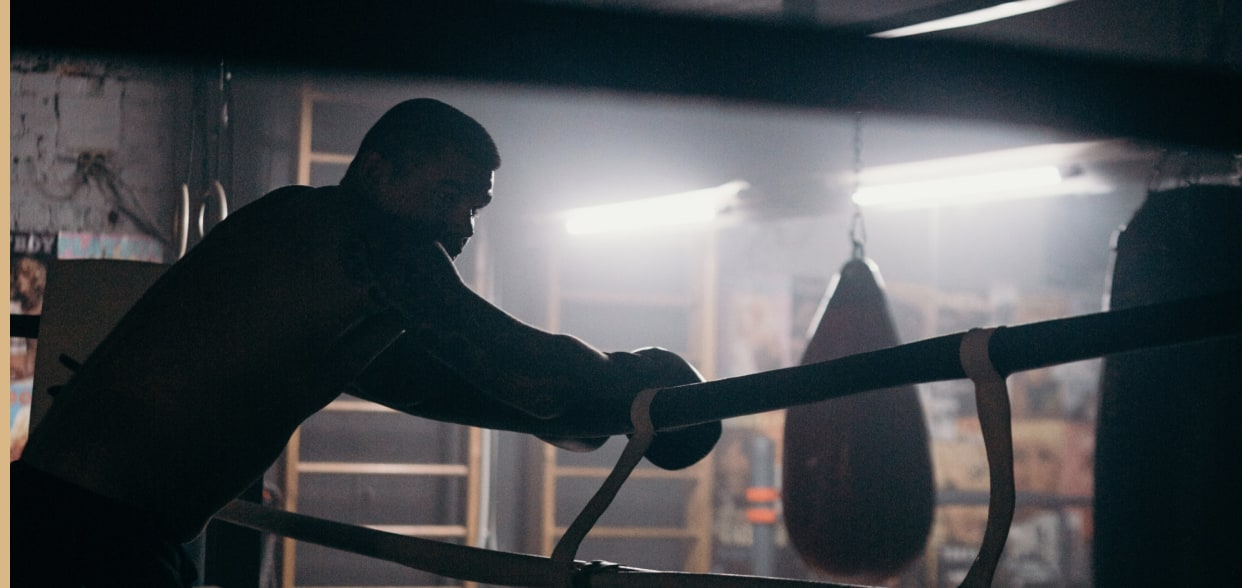
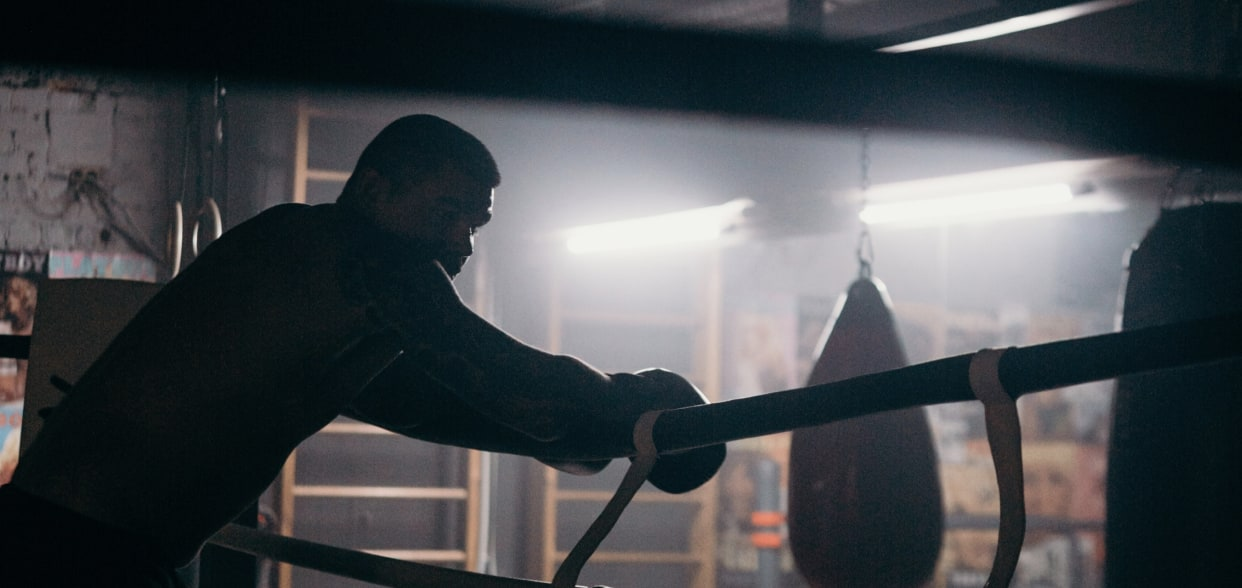
Dark mode article

diff --git a/_posts/2025-10-09-dark-mode.md b/_posts/2025-10-09-dark-mode.md
@@ -1,0 +1,29 @@
+---
+title: "Dark Mode is Here!"
+description: "A long overdue feature is finally available. You can now browse through the app's many boxing workouts in either light or dark mode!"
+p: "easy_pace"
+layout: post
+tag: features
+
+---
+
+We agree that the dark mode was long overdue, so we finally got it done: the dark mode is now available for the [Shadow Boxing App](/)! Let's take a quick look at how it looks like today.
+
+The home tab with recommended workouts is looking sharp, especially with the quick start liquid glass button.
+
+<div style='text-align: center'><img src='/assets/blog/dark/darkmode1.jpg' style='width: 80%;margin: 10px 0px 30px 0px;' alt='Dark mode for Boxing App'/></div>
+
+Tracking your stats and staying motivated in your boxing journey, but in low luminosity.
+
+
+<div style='text-align: center'><img src='/assets/blog/dark/darkmode2.jpg' style='width: 80%;margin: 10px 0px 30px 0px;' alt='Dark mode for Boxing App'/></div>
+
+Watching tutorial videos never looked better! Real cinema experience.
+
+<div style='text-align: center'><img src='/assets/blog/dark/darkmode3.jpg' style='width: 80%;margin: 10px 0px 30px 0px;' alt='Dark mode for Boxing App'/></div>
+
+Browsing through our many boxing workouts looks great, especially since it fits well with the already existing photos.
+
+<div style='text-align: center'><img src='/assets/blog/dark/darkmode4.jpg' style='width: 80%;margin: 10px 0px 30px 0px;' alt='Dark mode for Boxing App'/></div>
+
+By default the app will use your system's settings, but you can of course pick your favorite version.
